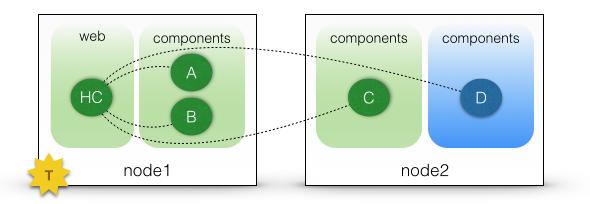
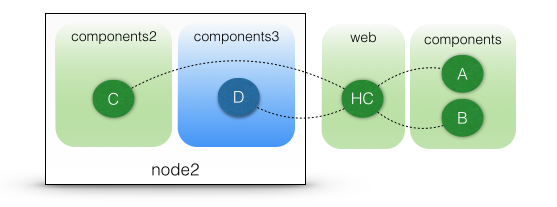
Updated version of hello tutorial

diff --git a/docs/1.x/tutorials/getting-started/index.md b/docs/1.x/tutorials/getting-started/index.md
@@ -26,10 +26,10 @@ next_page: ../spellchecker
  * Open a new terminal and type the following command on your working directory:
 
  <pre>
-$ <b>cohorte-create-node</b> my-pc
+$ <b>cohorte-create-node</b> node1
 </pre>
 
-This command will create a new directory named `my-pc` containing an executable `run` (which launches the created COHORTE node) and two folders `conf` (contains configuration files) and `repo` (contains components bundles).
+This command will create a new directory named `node1` containing an executable `run` (which launches the created COHORTE node) and two folders `conf` (contains configuration files) and `repo` (contains components bundles).
 
  * Download the bundle of this tutorial's components (no need to implement them in this getting started tutorial). 
 
@@ -37,10 +37,10 @@ This command will create a new directory named `my-pc` containing an executable 
 <div id="download_hello_demo_python_snapshot"></div> 
 </p>
 
- * Put the extracted `hello` directory into `my-pc/repo` directory.  
-   * The `hello` package contains four components:   
+ * Put the extracted `hello` directory into `node1/repo` directory.  
+   * The `hello` package contains four components (implemented in Python):   
      * **component_A**, **component_B**, and **component_C**: these components implements the HELLO service which has only one method `say_hello`. 
-     * **hello_components**: this component provides a web interface on which the list of discovered components implementing the HELLO service are listed (we show the message returned by each component when calling the `say_hello` method).
+     * **hello_components**: this component provides a web interface on which the list of discovered components implementing the HELLO service are listed (we show the message returned by each component when calling their `say_hello` method).
 
 The following picture depicts the web interface provided by the **hello_components** component and the underlying architecture of the application.
 
@@ -51,7 +51,7 @@ The following picture depicts the web interface provided by the **hello_componen
 
 ![Step 1](getting-started-img-1.png)
 
- * In order to have this deployment plan, you should edit the `my-pc/conf/autorun_conf.js` to specify the set of components that will be instantiated on this node and on which isolate.
+ * In order to have this deployment plan, you should edit the `node1/conf/autorun_conf.js` to specify the set of components that will be instantiated on each isolate.
 
 {% highlight json %}
 {
@@ -60,16 +60,16 @@ The following picture depicts the web interface provided by the **hello_componen
 		"name" : "default-application-composition",
 		"components" : [ 
 			{
-				"name" : "hello_components",
+				"name" : "HC",
 				"factory" : "hello_components_factory",
 				"isolate" : "web"
 			}, {
-				"name" : "component_A",
-				"factory" : "component_A_factory",
+				"name" : "A",
+				"factory" : "component_a_factory",
 				"isolate" : "components"
 			}, {
-				"name" : "component_B",
-				"factory" : "component_B_factory",
+				"name" : "B",
+				"factory" : "component_b_factory",
 				"isolate" : "components"
 			}
 		]
@@ -77,7 +77,7 @@ The following picture depicts the web interface provided by the **hello_componen
 }
 {% endhighlight %}
 
- * **It's done!** all what's you need to do now is to start `my-pc` node as follow:
+ * **It's done!** all what's you need to do now is to start `node1` node as follow:
 
  <pre>
 $ ./<b>run</b> -t
@@ -100,9 +100,9 @@ $ <b>http</b>
 +------------+--------------------------------------+-----------+--------------------------------------+-------+
 |    Name    |                 UID                  | Node Name |               Node UID               | HTTP  |
 +============+======================================+===========+======================================+=======+
-| components | 9fa3c812-64b0-499e-8b65-6ac5fe8bcf02 | my-pc     | 71c96fe6-5ce2-43c9-bafc-6f0905d8cf74 | 63625 |
+| components | 9fa3c812-64b0-499e-8b65-6ac5fe8bcf02 | node1     | 71c96fe6-5ce2-43c9-bafc-6f0905d8cf74 | 63625 |
 +------------+--------------------------------------+-----------+--------------------------------------+-------+
-| web        | ac0dd576-a7fb-4c34-b7ab-b68a810c38bc | my-pc     | 71c96fe6-5ce2-43c9-bafc-6f0905d8cf74 | <span style="color:red">63609</span> |
+| web        | ac0dd576-a7fb-4c34-b7ab-b68a810c38bc | node1     | 71c96fe6-5ce2-43c9-bafc-6f0905d8cf74 | <span style="color:red">63609</span> |
 +------------+--------------------------------------+-----------+--------------------------------------+-------+
 </div>
 </pre>
@@ -124,19 +124,23 @@ In this second step, we will distribute our components among two nodes (which ca
 
  * Lets have the same architecture as the first step, and we add a new instance of component_C that should be deployed on a second node. 
 
+ Here is the new depoyment configuration for this case. 
+
 ![Step 2](getting-started-img-2.png)
 
- * Start by creating two nodes:
+COHORTE will instantiate the HC, A, and B components on Top Composer node. The component C is instantiate on each other node having the name "node2". This node can be located on another machine than the one executing the Top Composer.
+
+In order to discover the nodes belonging to the same application, all the nodes should have the same *application-ID*. The following commands creates two nodes (node1 and node2) with the same *application-ID* `hello-application-step2`:
 
  <pre>
 $ <b>cohorte-create-node</b> node1 hello-application-step2
 $ <b>cohorte-create-node</b> node2 hello-application-step2
 </pre>
 
-Notice that we have given a second parameter to `cohorte-create-node` command. This parameter set an application ID for the two nodes. We should ensure that all participating nodes have the same application ID. 
+
 
  * Copy `hello` package used in the first step into the `repo directories of the two newly created nodes (you can also make symbolic links to avoid having two copies if your nodes are on the same machine).
- * Update `autorun_conf.js` file located on `node1/conf`:
+ * Update `autorun_conf.js` file located on `node1/conf` as follow:
 
 {% highlight json %}
 {
@@ -145,30 +149,34 @@ Notice that we have given a second parameter to `cohorte-create-node` command. T
 		"name" : "hello-application-step2-composition",
 		"components" : [ 
 			{
-				"name" : "hello_components",
+				"name" : "HC",
 				"factory" : "hello_components_factory",
-				"isolate" : "web",			
-				"node" : "node1"
+				"isolate" : "web"
 			}, {
-				"name" : "component_A",
-				"factory" : "component_A_factory",
-				"isolate" : "components",
-				"node" : "node1"
+				"name" : "A",
+				"factory" : "component_a_factory",
+				"isolate" : "components"
 			}, {
-				"name" : "component_B",
-				"factory" : "component_B_factory",
-				"isolate" : "components",
-				"node" : "node1"
+				"name" : "B",
+				"factory" : "component_b_factory",
+				"isolate" : "components"
 			}, {
-				"name" : "component_C",
-				"factory" : "component_C_factory",
-				"isolate" : "components",
+				"name" : "C",
+				"factory" : "component_c_factory",
+				"isolate" : "components2",
 				"node" : "node2"
 			}
 		]
 	}
 }
 {% endhighlight %}
+
+<div class="note">
+<span class="note-title">Note</span>
+<p class="note-content">
+The C component is specified to be in another isolate named "components2", not "components". In the actual version of COHORTE you can not have two different isolates with the same name in two different nodes!
+</p>
+</div>
 
 *  Remove the generated `autorun_conf.js` file located on `node2/conf`. Indeed, `node1` will be considered as **Top Composer**, it will controls the application's composition in all the participating nodes.
 
@@ -202,8 +210,8 @@ All the components used until now are implemented in Python (using [iPOPO compon
 <div id="download_hello_demo_java_snapshot"></div> 
 </p>
 
- * Put the extracted `jar` file into the `repo` folder of the two nodes (`node1/repo` and `node2/repo`). 
- * Update the `autorun_conf.js` file located on `node1/conf` to add this new component D. It should be instantiated on `node2` in the `components` isolate.
+ * Put the extracted `jar` file into the `repo` folder of `node2` node. 
+ * Update the `autorun_conf.js` file located on `node1/conf` to add this new component D. It should be instantiated on `node2`.
 
 {% highlight json %}
 {
@@ -212,29 +220,26 @@ All the components used until now are implemented in Python (using [iPOPO compon
 		"name" : "hello-application-step2-composition",
 		"components" : [ 
 			{
-				"name" : "hello_components",
+				"name" : "HC",
 				"factory" : "hello_components_factory",
-				"isolate" : "web",			
-				"node" : "node1"
+				"isolate" : "web"
 			}, {
-				"name" : "component_A",
+				"name" : "A",
 				"factory" : "component_A_factory",
-				"isolate" : "components",
-				"node" : "node1"
+				"isolate" : "components"
 			}, {
-				"name" : "component_B",
+				"name" : "B",
 				"factory" : "component_B_factory",
-				"isolate" : "components",
-				"node" : "node1"
+				"isolate" : "components"
 			}, {
-				"name" : "component_C",
+				"name" : "C",
 				"factory" : "component_C_factory",
-				"isolate" : "components",
+				"isolate" : "components2",
 				"node" : "node2"
 			}, {
-				"name" : "component_D",
+				"name" : "D",
 				"factory" : "component_D_factory",
-				"isolate" : "components",
+				"isolate" : "components3",
 				"node" : "node2"
 			}
 		]
@@ -242,15 +247,19 @@ All the components used until now are implemented in Python (using [iPOPO compon
 }
 {% endhighlight %}
 
- * start the two nodes as explained in the previous step (*node1* as *Top Composer* and *node2* as a simple node with different http and remote shell ports).
- * Test the web interface. You will find that the `component_D` which is implemented in Java is also used by the `hello_components` component, implemented in Python. 
- * However, under the hood, COHORTE has created a seperate *components isolate* for this new component ( D ). This is because it is of different nature, it needs other runtime infrastructure than the Python components.
-
 ![Step 2](getting-started-img-4.png)
+
+ * As you notice, components C and D should be deployed on two sperate isolates (*components2* and *components3*) as are implemented in two different languages.
+
+ * start the two nodes as explained in the previous step (*node1* as *Top Composer* and *node2* as a simple node with different http and remote shell ports).
+ * Test the web interface. You will find that the **D** component which is implemented in Java is also used by the **HC** component, implemented in Python. 
+
+
 
 ### Step 4
 
-crash-test! TODO
+crash-test! 
+Work in progress.. 
 
 
 [Home](../../../../) > [Documentation](../../) > [Tutorials](../)
